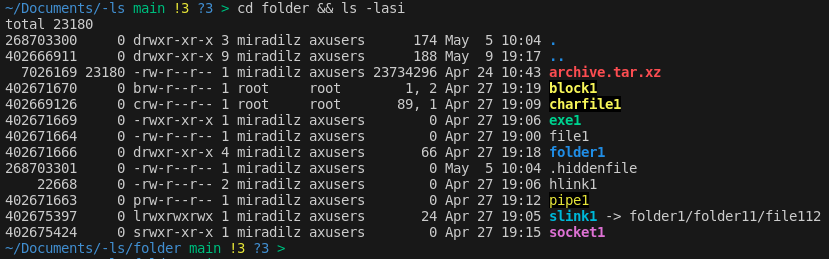
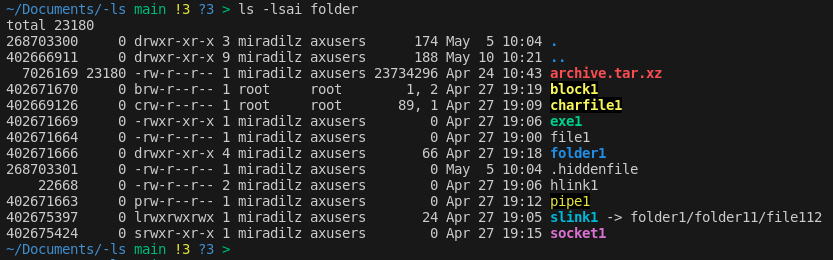
Third post is done

Changed region(s): [[0.0, 0.0, 0.9952, 0.9884]]

diff --git a/content/posts/reinvent/ls/part3/index.md b/content/posts/reinvent/ls/part3/index.md
@@ -1,6 +1,6 @@
 ---
 title: "Getting the list of files and their info"
-date: 2023-05-07T19:00:00+02:00
+date: 2023-05-10T10:00:00+02:00
 description: "Getting the list of files and their info"
 menu:
   sidebar:
@@ -11,7 +11,6 @@ menu:
 tags: ["C", "Linux", "Shell"]
 categories: ["Rewriting Linux `ls` command"]
 series: ["LS"]
-draft: true
 ---
 
 
@@ -91,7 +90,7 @@ What are these data?
 
 ## Collecting all the necessary info
 
-To easily access every attribute of file, let's use a struct. But, wait! C already has a [`struct stat`](https://man7.org/linux/man-pages/man2/lstat.2.html) which stores almost all needed information (we miss user name, group name, color etc.). Of course, we have to write functions to handle missing data. We can use those functions when needed (maybe when it is already print time), or we create another struct and fill it beforehand with everything. I preffer going with latter, as it is easier to handle everything. Let's create another identical struct with extra data......
+To easily access every attribute of file, let's use a struct. But, wait! C already has a [`struct stat`](https://man7.org/linux/man-pages/man2/lstat.2.html) which stores almost all needed information (we miss user name, group name, color etc.). Of course, we have to write functions to handle missing data. We can use those functions when needed (maybe when it is already print time), or we create another struct and fill it beforehand with everything. I prefer going with latter, as it is easier to handle everything. Let's create another identical struct with extra data......
 
 ### WAIT, YOU CAN EXTEND STRUCTS?
 
@@ -101,11 +100,11 @@ Yep, I am shocked as well. I found this at time writing this post, when this que
 typedef struct
 {
     struct stat;
+    char name[256];
     char permission[11];
-    char color[8];
+    char color[16];
     char extension[256];
     char indicator; // for -F and -p
-
     char owner_name[256];
     char group_name[256];
 
@@ -159,7 +158,7 @@ pipe1 0
 .hiddenfile 0
 ```
 
-If you check with `ls`, these are the correct numbers. Perfect, our struct is working as it should. However, there are some data that is missing.
+IT WORKS! If you check with `ls`, these are indeed the correct numbers. However, there are some data that is missing.
 
 ### Collecting the rest of the data
 
@@ -239,16 +238,16 @@ void get_file_extension(char *file_name, char *extension)
 Again, nothing serious here:
 
 ```c
-#define COLOR_RESET "\x1b[0m" // reset color settings
-#define COLOR_REGULAR COLOR_RESET
-#define COLOR_EXECUTABLES "\033[1;32m"
-#define COLOR_DIRECTORIES "\x1b[1;34m"
-#define COLOR_LINK "\x1b[1;36m"
-#define COLOR_FIFO "\x1b[40;33m"
-#define COLOR_SOCKET "\x1b[1;35m"
-#define COLOR_BLK_CHR "\x1b[40;33;1m"
-#define COLOR_BROKEN_LINK "\x1b[40;31;1m"
-#define COLOR_ARCHIVE "\x1b[1;31m"
+#define COLOR_RESET         "\x1b[0m" // reset color settings
+#define COLOR_REGULAR       COLOR_RESET
+#define COLOR_EXECUTABLES   "\x1b[1;32m"
+#define COLOR_DIRECTORIES   "\x1b[1;34m"
+#define COLOR_LINK          "\x1b[1;36m"
+#define COLOR_FIFO          "\x1b[40;33m"
+#define COLOR_SOCKET        "\x1b[1;35m"
+#define COLOR_BLK_CHR       "\x1b[40;33;1m"
+#define COLOR_BROKEN_LINK   "\x1b[40;31;1m"
+#define COLOR_ARCHIVE       "\x1b[1;31m"
 
 void get_color(char* permission, char *extension, char *color)
 {
@@ -320,6 +319,7 @@ So, now we have everything ready as separate parts and functions, let's join the
 #include <file_data.h>
 #include <unistd.h>
 #include <string.h>
+#include <time.h>
 
 int main(int argc, char *argv[])
 {
@@ -334,7 +334,7 @@ int main(int argc, char *argv[])
 
     while ((file = readdir(dir)) != NULL)
     {
-        stat(file->d_name, (struct stat *)&files[i]);
+        lstat(file->d_name, (struct stat *)&files[i]);
 
         strcpy(files[i].name, file->d_name);
         get_username_from_uid(files[i].st_uid, files[i].owner_name);
@@ -353,15 +353,15 @@ int main(int argc, char *argv[])
     for (int j = 0; j < i; ++j)
     {
         timeinfo = localtime(&files[j].st_mtime);
-        strftime(filetime, 20, "%b %d %H:%M", timeinfo);
+        strftime(filetime, 20, "%b %-2d %H:%M", timeinfo);
 
-        printf("%-9d\t%d\t%s\t%d\t%-10s\t%s\t%-8d\t%s\t%s%s%s\n", files[j].st_ino, files[j].st_blocks / 2, files[j].permission, 
-                                                                files[j].st_nlink, files[j].owner_name, files[j].group_name, 
-                                                                files[j].st_size, filetime, files[j].color, files[j].name, COLOR_RESET);
+        printf("%9d %5d %s %d %-8s %-7s %8d %s %s%s%s\n", files[j].st_ino, files[j].st_blocks / 2, files[j].permission, files[j].st_nlink, 
+                                                    files[j].owner_name, files[j].group_name, files[j].st_size, filetime, files[j].color, files[j].name, COLOR_RESET);
     }
 
     return 0;
 }
+
 ```
 
 Guess the output?
@@ -374,9 +374,9 @@ Guess the output?
 
 VOILA! Almost perfect output :) Of course, we are missing some data:
 
-- First and foremost, the formatting. The original `ls` is way more compact, as they do not use tabs, instead adjusts every column by its most wide line.
-- The order of files in output is different.
-- For char and block files, instead of size, device numbers should be shown.
+- First and foremost, the formatting. The original `ls` output adjusts every column by its most wide line, however, we have done that manually.
+- The order of files in outputs are different.
+- For char and block files, instead of size, device numbers should be shown. We have that data in `struct stat` we just need separate if statement and formatting to fix that.
 - For soft links, their reference files should be shown.
 
-But for now, these are okay, because, we are sure that we collected all needed data about all files in directory.  
+But for now, these are okay, because, we are sure that we collected all needed data about all files in directory. In the upcoming posts we will fix all of these issues.
